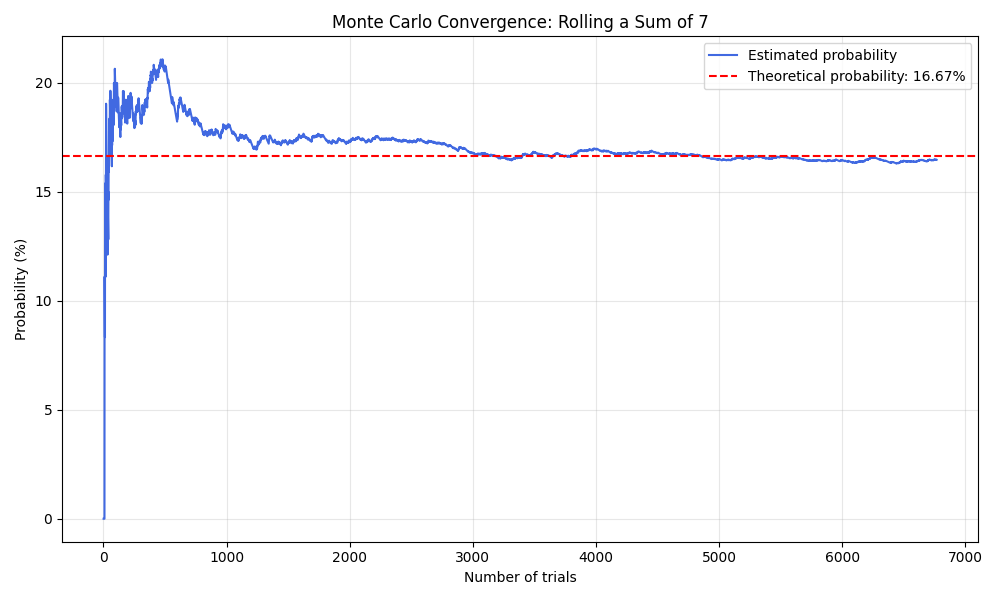
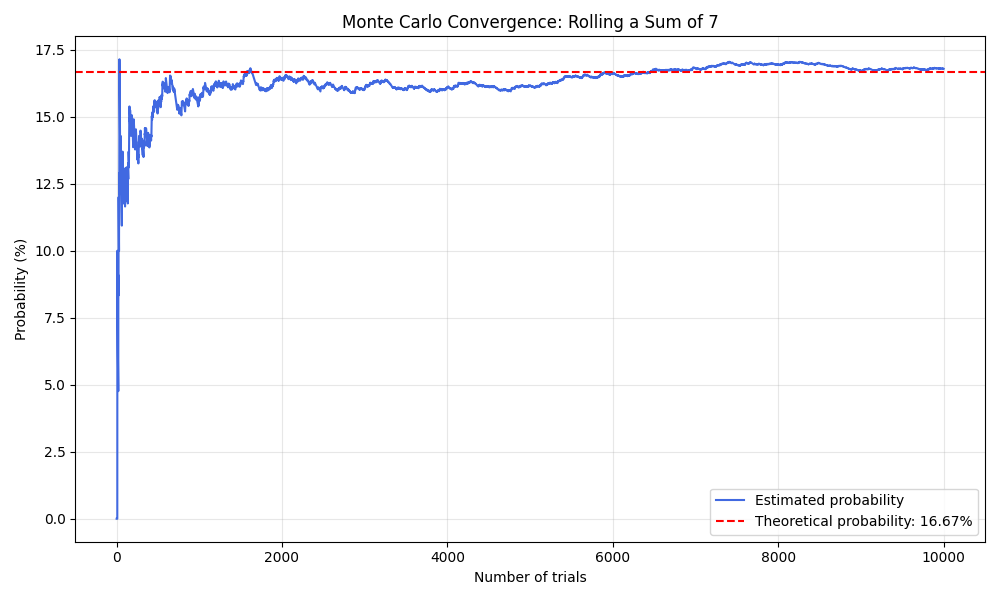
Clean upcard output, remove dead code, consistent plot prompts

diff --git a/card_simulation.py b/card_simulation.py
@@ -50,27 +50,6 @@ def create_deck():
             deck.append(card_tuple)
     return deck
 
-def validate_hand(hand1, hand2):
-    """
-    Makes sure starting hands are possible hands
-    """
-    starting_hands = [hand1, hand2]
-    for hand in starting_hands:
-        if hand[0] == hand[1]:
-            return False
-
-    if hand1[0] in hand2 or hand1[1] in hand2:
-        return False
-
-    for hand in starting_hands:
-        if hand[0][0] not in ranks or hand[1][0] not in ranks:
-            return False
-
-        if hand[0][1] not in suits or hand[1][1] not in suits:
-            return False
-
-    return True
-
 def remove_starting_hand(hand1, hand2):
     """
     removes starting hand from deck so they aren't a part of the draw when the simulation is running
@@ -291,27 +270,33 @@ def get_yes_no(prompt):
         print(f"{RED}Please enter y or n.{RESET}")
 
 
-def print_comparison_table(simulated, exact):
+def print_comparison_table(simulated, exact, hand1, hand2):
     """
     Prints simulated %, exact %, and absolute error side by side.
     """
-    print(f"{'':<8}{'Simulated %':>13}{'Exact %':>11}{'Abs. error':>13}")
-    for label, simulated_percentage, exact_percentage in zip(["Hand 1", "Hand 2", "Ties"], simulated, exact):
+    labels = [f"Hand 1 ({format_hand(hand1)})", f"Hand 2 ({format_hand(hand2)})", "Ties"]
+    print(f"{'':<16}{'Simulated %':>13}{'Exact %':>11}{'Abs. error':>13}")
+    for label, simulated_percentage, exact_percentage in zip(labels, simulated, exact):
         error = abs(simulated_percentage - exact_percentage)
-        print(f"{label:<8}{simulated_percentage:>13.2f}{exact_percentage:>11.2f}{error:>13.2f}")
+        print(f"{label:<16}{simulated_percentage:>13.2f}{exact_percentage:>11.2f}{error:>13.2f}")
 
 
-def short_hand_name(hand):
+def format_card(card):
     """
-    Turns (("ACE", "SPADES"), ("KING", "SPADES")) into "A♠K♠" for plot titles.
+    Turns ("ACE", "SPADES") into "A♠". Ten is "T" so every card is two characters.
     """
-    rank_letters = {"ACE": "A", "KING": "K", "QUEEN": "Q", "JACK": "J"}
+    rank_letters = {"ACE": "A", "KING": "K", "QUEEN": "Q", "JACK": "J", "TEN": "T"}
     suit_symbols = {"SPADES": "♠", "HEARTS": "♥", "DIAMONDS": "♦", "CLUBS": "♣"}
 
-    name = ""
-    for rank, suit in hand:
-        name += rank_letters.get(rank, str(rank_values[rank])) + suit_symbols[suit]
-    return name
+    rank, suit = card
+    return rank_letters.get(rank, str(rank_values[rank])) + suit_symbols[suit]
+
+
+def format_hand(hand):
+    """
+    Turns a two-card hand into "A♠K♠" using format_card for each card.
+    """
+    return "".join(format_card(card) for card in hand)
 
 
 def plot_convergence(running_percentages, exact_hand1_percentage, hand1, hand2, show_plot):
@@ -340,7 +325,7 @@ def plot_convergence(running_percentages, exact_hand1_percentage, hand1, hand2, 
 
     plt.xlabel("Number of runs")
     plt.ylabel("Hand 1 win (%)")
-    plt.title(f"Monte Carlo Convergence: {short_hand_name(hand1)} vs {short_hand_name(hand2)}")
+    plt.title(f"Monte Carlo Convergence: {format_hand(hand1)} vs {format_hand(hand2)}")
     plt.legend()
     plt.grid(alpha=0.3)
     plt.tight_layout()
@@ -414,11 +399,11 @@ def main():
 
     hand1_percentage, hand2_percentage, ties_percentage = estimated_probability(hand1_wins, hand2_wins, ties, run_amount)
 
-    print("After running Hand 1:" + str(hand1) + "and Hand 2:" + str(hand2) + " through " + str(run_amount) + " random runouts,")
-    print("Hand 1 won " + str(hand1_wins) + " times")
-    print("Hand 2 won " + str(hand2_wins) + " times")
-    print("There were " + str(ties) + " ties")
-    print("Hand 1: " + str(hand1_percentage) + "% Hand 2: " + str(hand2_percentage) + "% Ties: " + str(ties_percentage) + "%")
+    print(f"After running Hand 1 ({format_hand(hand1)}) and Hand 2 ({format_hand(hand2)}) through {run_amount:,} random runouts,")
+    print(f"Hand 1 won {hand1_wins} times")
+    print(f"Hand 2 won {hand2_wins} times")
+    print(f"There were {ties} ties")
+    print(f"Hand 1: {hand1_percentage}% Hand 2: {hand2_percentage}% Ties: {ties_percentage}%")
     print(f"Simulation took {elapsed_seconds:.2f} seconds")
 
     exact = None  # stays None unless the user asks for exact odds
@@ -429,7 +414,7 @@ def main():
         exact_seconds = time.perf_counter() - start_time
         print(f"Exact calculation took {exact_seconds:.1f} seconds")
         print()
-        print_comparison_table((hand1_percentage, hand2_percentage, ties_percentage), exact)
+        print_comparison_table((hand1_percentage, hand2_percentage, ties_percentage), exact, hand1, hand2)
 
     exact_hand1_percentage = exact[0] if exact is not None else None
     show_plot = get_yes_no("Show the convergence plot? (y/n): ")

diff --git a/dice_simulation.py b/dice_simulation.py
@@ -108,7 +108,25 @@ def print_error_table(target, theoretical):
         print(f"{trials:>10,} | {estimated:>11.2f} | {theoretical:>13.2f} | {absolute_error:>14.2f}")
 
 
-def plot_convergence(estimated_probabilities, theoretical_probability, target):
+def get_yes_no(prompt):
+    """
+    Keeps asking until the user types y or n. Returns True for yes.
+    If there is no more input (for example, piped answers ran out), counts as no.
+    """
+    while True:
+        try:
+            answer = input(prompt).strip().lower()
+        except EOFError:
+            print()
+            return False
+        if answer in ("y", "yes"):
+            return True
+        if answer in ("n", "no"):
+            return False
+        print("Please enter y or n.")
+
+
+def plot_convergence(estimated_probabilities, theoretical_probability, target, show_plot):
     """
     Plots the running estimates against the theoretical probability
     and saves the graph to images/dice_convergence.png.
@@ -141,7 +159,8 @@ def plot_convergence(estimated_probabilities, theoretical_probability, target):
     os.makedirs("images", exist_ok=True)
     save_path = "images/dice_convergence.png"
     plt.savefig(save_path)
-    plt.show()
+    if show_plot:
+        plt.show()
     plt.close()
 
     print()
@@ -167,7 +186,8 @@ def main():
     print(f"Absolute error: {absolute_error:.2f} percentage points")
 
     print_error_table(target, theoretical)
-    plot_convergence(history, theoretical, target)
+    show_plot = get_yes_no("Show the plot? (y/n): ")
+    plot_convergence(history, theoretical, target, show_plot)
 
 
 if __name__ == "__main__":

diff --git a/CLAUDE.md b/CLAUDE.md
@@ -10,7 +10,7 @@ Learning project: Monte Carlo simulations that compare simulated estimates with 
 - Keep the existing probability math (formulas, estimators, transition probabilities, payouts) unless the user asks to change it.
 - Explain every change in plain language, including the probability or Python concept behind it, because the user is learning.
 - Don't change the strategy logic in `interesting_problem_simulation.py`.
-- Save plots with `plt.savefig("images/<name>.png")` and `plt.close()`. Call `plt.show()` only behind a y/n prompt (like `card_simulation.py`), so piped runs never open a window.
+- Always save plots to `images/` with `plt.savefig("images/<name>.png")` and `plt.close()`. Only call `plt.show()` after asking y/n (see `get_yes_no()` in `card_simulation.py` / `dice_simulation.py`), so piped runs never open a window.
 
 ## Conventions
 
